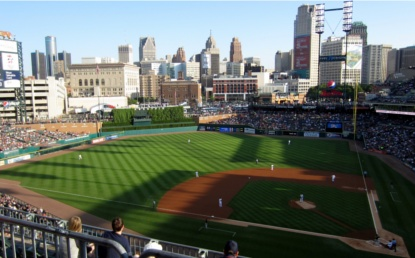
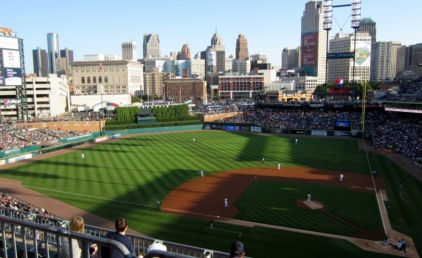
Making ballpark images wider, adding locations.

diff --git a/css/style.min.css b/css/style.min.css
@@ -145,12 +145,12 @@ html.ie #search #search_text{padding-top:4px;}
 #content.projects #projects .project:hover .container div.meta .tag{background-color:#aaa;}
 #content.projects #projects .col-2{margin-right:0px;}
 #ballparks .col{float:left;}
-#ballparks .col-0{margin-right:30px;}
-#ballparks .ballpark{width:415px;height:258px;margin-top:30px;position:relative;border-radius:2px 2px 2px 2px;-moz-border-radius:2px 2px 2px 2px;-webkit-border-radius:2px 2px 2px 2px;-webkit-box-shadow:1px 1px 10px 2px #aaaaaa;-moz-box-shadow:1px 1px 10px 2px #aaaaaa;box-shadow:1px 1px 10px 2px #aaaaaa;overflow:hidden;}#ballparks .ballpark .header{display:none;padding:10px;background:#444;background:rgba(0, 0, 0, 0.7);position:absolute;top:0px;left:0px;right:0px;overflow-y:hidden;}#ballparks .ballpark .header h1{color:#fff;font-family:'Arvo','Arial Black','Arial','Helvetica',sans-serif;font-size:113%;font-weight:bold;}#ballparks .ballpark .header h1 a{color:#fff;text-decoration:underline;}#ballparks .ballpark .header h1 a:hover{text-decoration:none;}
+#ballparks .col-0{margin-right:15px;}
+#ballparks .ballpark{width:422px;height:258px;margin-top:15px;position:relative;border-radius:2px 2px 2px 2px;-moz-border-radius:2px 2px 2px 2px;-webkit-border-radius:2px 2px 2px 2px;-webkit-box-shadow:1px 1px 10px 2px #aaaaaa;-moz-box-shadow:1px 1px 10px 2px #aaaaaa;box-shadow:1px 1px 10px 2px #aaaaaa;overflow:hidden;}#ballparks .ballpark .header{display:none;padding:10px;background:#444;background:rgba(0, 0, 0, 0.7);border-radius:2px 2px 0px 0px;-moz-border-radius:2px 2px 0px 0px;-webkit-border-radius:2px 2px 0px 0px;position:absolute;top:0px;left:0px;right:0px;overflow-y:hidden;}#ballparks .ballpark .header h1{color:#fff;font-family:'Arvo','Arial Black','Arial','Helvetica',sans-serif;font-size:113%;font-weight:bold;}#ballparks .ballpark .header h1 a{color:#fff;text-decoration:underline;}#ballparks .ballpark .header h1 a:hover{text-decoration:none;}
 #ballparks .ballpark .header h2{color:#fff;font-family:'Arvo','Arial Black','Arial','Helvetica',sans-serif;font-size:100%;}
-#ballparks .ballpark .header .rating{position:absolute;top:0px;right:0px;bottom:0px;background-color:#369;color:#fff;font-size:30px;line-height:30px;font-weight:bold;}#ballparks .ballpark .header .rating div{padding:10px 10px 0px 0px;}
+#ballparks .ballpark .header .rating{position:absolute;top:0px;right:0px;bottom:0px;background-color:#369;color:#fff;font-size:30px;line-height:30px;font-weight:bold;border-radius:0px 2px 0px 0px;-moz-border-radius:0px 2px 0px 0px;-webkit-border-radius:0px 2px 0px 0px;}#ballparks .ballpark .header .rating div{padding:10px 10px 0px 0px;}
 #ballparks .ballpark .header .rating:before{content:"aaa...aaa";height:0px;width:0px;border-style:solid;border-width:30px;border-color:#369;border-left-color:transparent;border-bottom-color:transparent;position:absolute;left:-60px;overflow:hidden;}
-#ballparks .ballpark .footer{display:none;background:#444;background:rgba(0, 0, 0, 0.7);position:absolute;bottom:0px;left:0px;right:0px;padding:5px 10px;}#ballparks .ballpark .footer div.meta{color:white;}#ballparks .ballpark .footer div.meta div.field{clear:both;overflow:hidden;}#ballparks .ballpark .footer div.meta div.field div.name{float:left;font-weight:bold;width:100px;}
+#ballparks .ballpark .footer{display:none;background:#444;background:rgba(0, 0, 0, 0.7);border-radius:0px 0px 2px 2px;-moz-border-radius:0px 0px 2px 2px;-webkit-border-radius:0px 0px 2px 2px;position:absolute;bottom:0px;left:0px;right:0px;padding:5px 10px;}#ballparks .ballpark .footer div.meta{color:white;}#ballparks .ballpark .footer div.meta div.field{clear:both;overflow:hidden;}#ballparks .ballpark .footer div.meta div.field div.name{float:left;font-weight:bold;width:100px;}
 #ballparks .ballpark .footer div.meta div.field div.value{float:left;}#ballparks .ballpark .footer div.meta div.field div.value a{color:#fff;}#ballparks .ballpark .footer div.meta div.field div.value a:hover{text-decoration:none;}
 #ballparks .ballpark .footer .credit{position:absolute;bottom:3px;right:3px;color:#fff;font-size:11px;}#ballparks .ballpark .footer .credit a{color:#fff;}
 #ballparks .ballpark:hover{-webkit-box-shadow:1px 1px 10px 2px #555555;-moz-box-shadow:1px 1px 10px 2px #555555;box-shadow:1px 1px 10px 2px #555555;}#ballparks .ballpark:hover .header,#ballparks .ballpark:hover .footer{display:block;}

diff --git a/css/style.css b/css/style.css
@@ -1077,12 +1077,12 @@ html.ie #search #search_text {
   float: left;
 }
 #ballparks .col-0 {
-  margin-right: 30px;
+  margin-right: 15px;
 }
 #ballparks .ballpark {
-  width: 415px;
+  width: 422px;
   height: 258px;
-  margin-top: 30px;
+  margin-top: 15px;
   position: relative;
   border-radius: 2px 2px 2px 2px;
   -moz-border-radius: 2px 2px 2px 2px;
@@ -1097,6 +1097,9 @@ html.ie #search #search_text {
   padding: 10px;
   background: #444;
   background: rgba(0, 0, 0, 0.7);
+  border-radius: 2px 2px 0px 0px;
+  -moz-border-radius: 2px 2px 0px 0px;
+  -webkit-border-radius: 2px 2px 0px 0px;
   position: absolute;
   top: 0px;
   left: 0px;
@@ -1131,6 +1134,9 @@ html.ie #search #search_text {
   font-size: 30px;
   line-height: 30px;
   font-weight: bold;
+  border-radius: 0px 2px 0px 0px;
+  -moz-border-radius: 0px 2px 0px 0px;
+  -webkit-border-radius: 0px 2px 0px 0px;
 }
 #ballparks .ballpark .header .rating div {
   padding: 10px 10px 0px 0px;
@@ -1152,6 +1158,9 @@ html.ie #search #search_text {
   display: none;
   background: #444;
   background: rgba(0, 0, 0, 0.7);
+  border-radius: 0px 0px 2px 2px;
+  -moz-border-radius: 0px 0px 2px 2px;
+  -webkit-border-radius: 0px 0px 2px 2px;
   position: absolute;
   bottom: 0px;
   left: 0px;

diff --git a/less/pages/_ballpark_resume.less b/less/pages/_ballpark_resume.less
@@ -4,13 +4,13 @@
 	}
 	
 	.col-0 {
-		margin-right: 30px;
+		margin-right: 15px;
 	}
 
 	.ballpark {
-		width: 415px;
+		width: 422px;
 		height: 258px;
-		margin-top: 30px;
+		margin-top: 15px;
 		position: relative;
 		.border-radius(2px);
 		.box-shadow(1px, 1px, 10px, 2px, #aaa);
@@ -22,6 +22,8 @@
 			
 			background: #444;
 			background: rgba(0, 0, 0, 0.7);
+
+			.border-radius(2px, 2px, 0px, 0px);
 			
 			position: absolute;
 			top: 0px;
@@ -62,6 +64,8 @@
 				line-height: 30px;
 				font-weight: bold;
 
+				.border-radius(0px, 2px, 0px, 0px);
+
 				div {
 					padding: 10px 10px 0px 0px;
 				}
@@ -87,6 +91,8 @@
 			
 			background: #444;
 			background: rgba(0, 0, 0, 0.7);
+
+			.border-radius(0px, 0px, 2px, 2px);
 
 			position: absolute;
 			bottom: 0px;

diff --git a/ballpark_resume.inc.php b/ballpark_resume.inc.php
@@ -8,6 +8,7 @@ function get_ballparks()
 		'name' => "Progressive Field",
 		'team' => "Cleveland Indians",
 		'alt_name' => "Jacobs Field",
+		'location' => "Cleveland, OH",
 		'rating' => '9',
 		'num_visits' => '50+',
 		'visit' => "1995-08-02",
@@ -19,17 +20,19 @@ function get_ballparks()
 	$ballparks []= array(
 		'name' => "Fenway Park",
 		'team' => "Boston Red Sox",
+		'location' => "Boston, MA",
 		'rating' => '9',
 		'num_visits' => '1',
 		'visit' => "2003-06-24",
 		'game' => "http://www.baseball-reference.com/boxes/BOS/BOS200306240.shtml",
 		'img' => "fenway_park.jpg",
-		'img_credit' => "http://www.flickr.com/photos/apollo13ma/2338849933/",
+		'img_credit' => "http://www.flickr.com/photos/wallyg/156139457/",
 	);
 
 	$ballparks []= array(
 		'name' => "Wrigley Field",
 		'team' => "Chicago Cubs",
+		'location' => "Chicago, IL",
 		'rating' => '7',
 		'num_visits' => '1',
 		'visit' => "2007-07-20",
@@ -41,6 +44,7 @@ function get_ballparks()
 	$ballparks []= array(
 		'name' => "Great American Ballpark",
 		'team' => "Cincinatti Reds",
+		'location' => "Cincinatti, OH",
 		'rating' => '6',
 		'num_visits' => '1',
 		'visit' => "2008-05-18",
@@ -52,6 +56,7 @@ function get_ballparks()
 	$ballparks []= array(
 		'name' => "Shea Stadium",
 		'team' => "New York Mets",
+		'location' => "Queens, NY",
 		'rating' => '6',
 		'num_visits' => '1',
 		'visit' => "2008-07-27",
@@ -64,6 +69,7 @@ function get_ballparks()
 		'name' => "Yankee Stadium",
 		'alt_name' => "Old Yankee Stadium",
 		'team' => "New York Yankees",
+		'location' => "Bronx, NY",
 		'rating' => '10',
 		'num_visits' => '1',
 		'visit' => "2008-07-28",
@@ -75,6 +81,7 @@ function get_ballparks()
 	$ballparks []= array(
 		'name' => "Camden Yards",
 		'team' => "Baltimore Orioles",
+		'location' => "Baltimore, MD",
 		'rating' => '8',
 		'num_visits' => '1',
 		'visit' => "2009-05-12",
@@ -86,6 +93,7 @@ function get_ballparks()
 	$ballparks []= array(
 		'name' => "PNC Park",
 		'team' => "Pittsburgh Pirates",
+		'location' => "Pittsburgh, PA",
 		'rating' => '9',
 		'num_visits' => '1',
 		'visit' => "2010-05-31",
@@ -97,6 +105,7 @@ function get_ballparks()
 	$ballparks []= array(
 		'name' => "Nationals Park",
 		'team' => "Washington Nationals",
+		'location' => "Washington, DC",
 		'rating' => '8',
 		'num_visits' => "1",
 		'visit' => "2011-07-03",
@@ -108,6 +117,7 @@ function get_ballparks()
 	$ballparks []= array(
 		'name' => "Target Field",
 		'team' => "Minnesota Twins",
+		'location' => "Minneapolis, MN",
 		'rating' => '9',
 		'num_visits' => "3",
 		'visit' => "2011-09-16",
@@ -119,6 +129,7 @@ function get_ballparks()
 	$ballparks []= array(
 		'name' => "Comerica Park",
 		'team' => "Detroit Tigers",
+		'location' => "Detroit, MI",
 		'rating' => '9',
 		'num_visits' => "1",
 		'visit' => "2012-05-18",
@@ -131,6 +142,7 @@ function get_ballparks()
 		'name' => "Rogers Centre",
 		'alt_name' => "SkyDome",
 		'team' => "Toronto Blue Jays",
+		'location' => "Toronto, ON",
 		'rating' => '5',
 		'num_visits' => "1",
 		'visit' => "2012-05-19",

diff --git a/ballpark_resume.tpl.php b/ballpark_resume.tpl.php
@@ -20,7 +20,7 @@ list($ballparks, $cols) = get_ballparks();
 						<? else: ?>
 							<h1><?=$ballpark['name'] ?></h1>
 						<? endif; ?>
-						<h2><?=isset($ballpark['alt_name'])? $ballpark['alt_name'] : '&nbsp;'; ?></h2>
+						<h2><?=$ballpark['location']; ?><?=isset($ballpark['alt_name'])? ' &middot; ' . $ballpark['alt_name'] : ""; ?></h2>
 
 						<div class="rating rating-<?=$ballpark['rating']; ?>">
 							<div>
